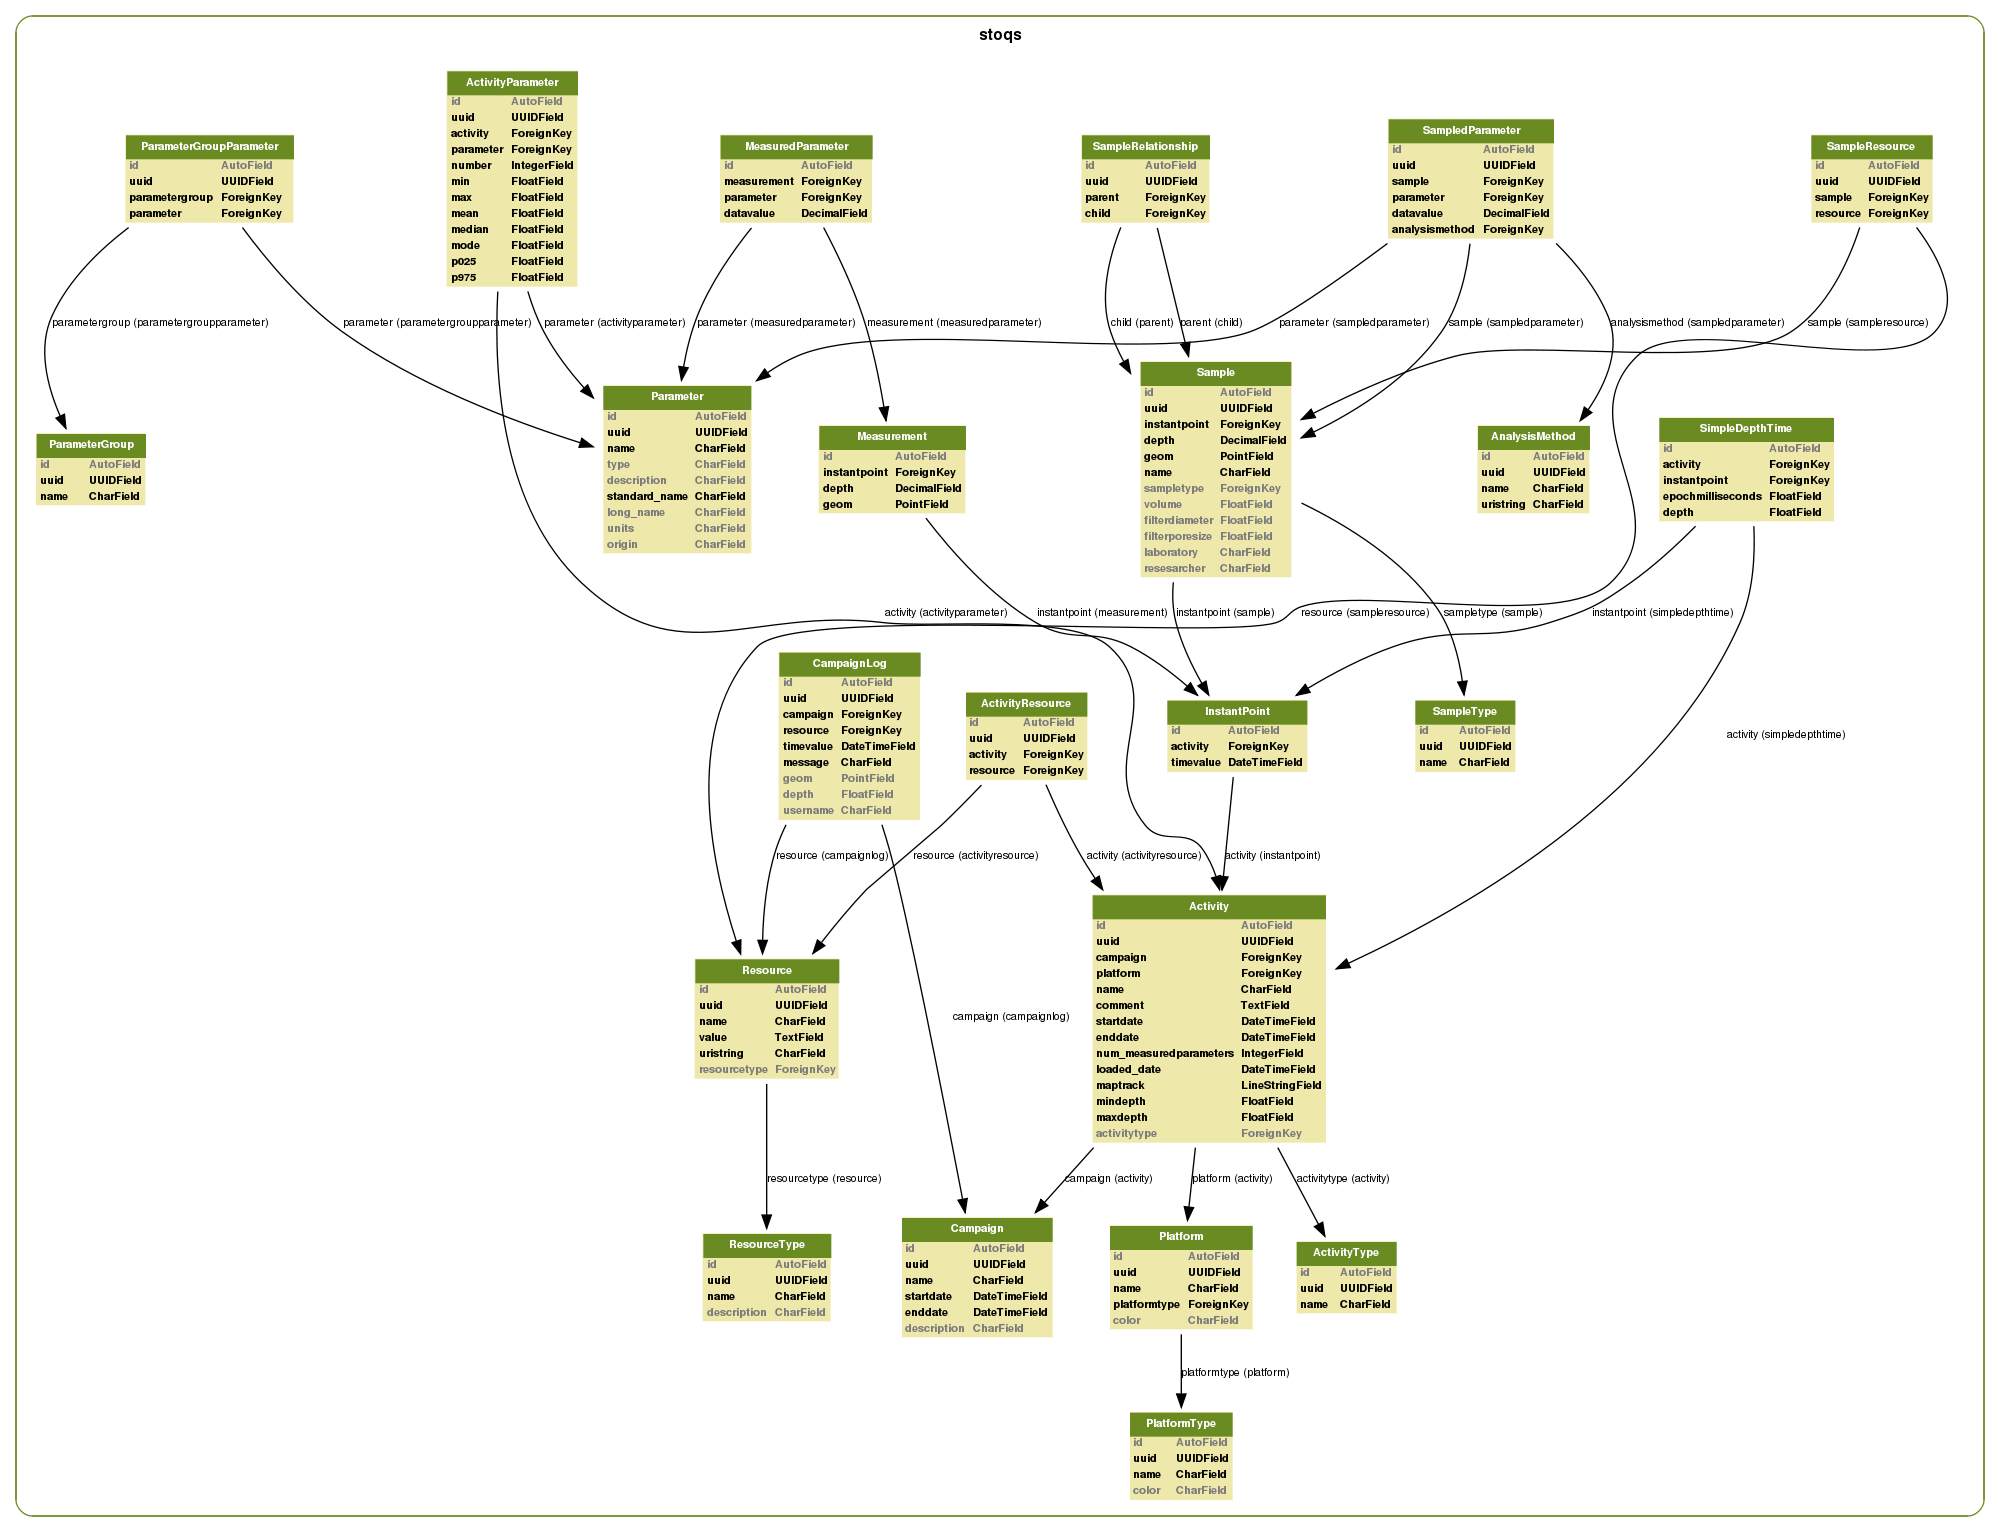
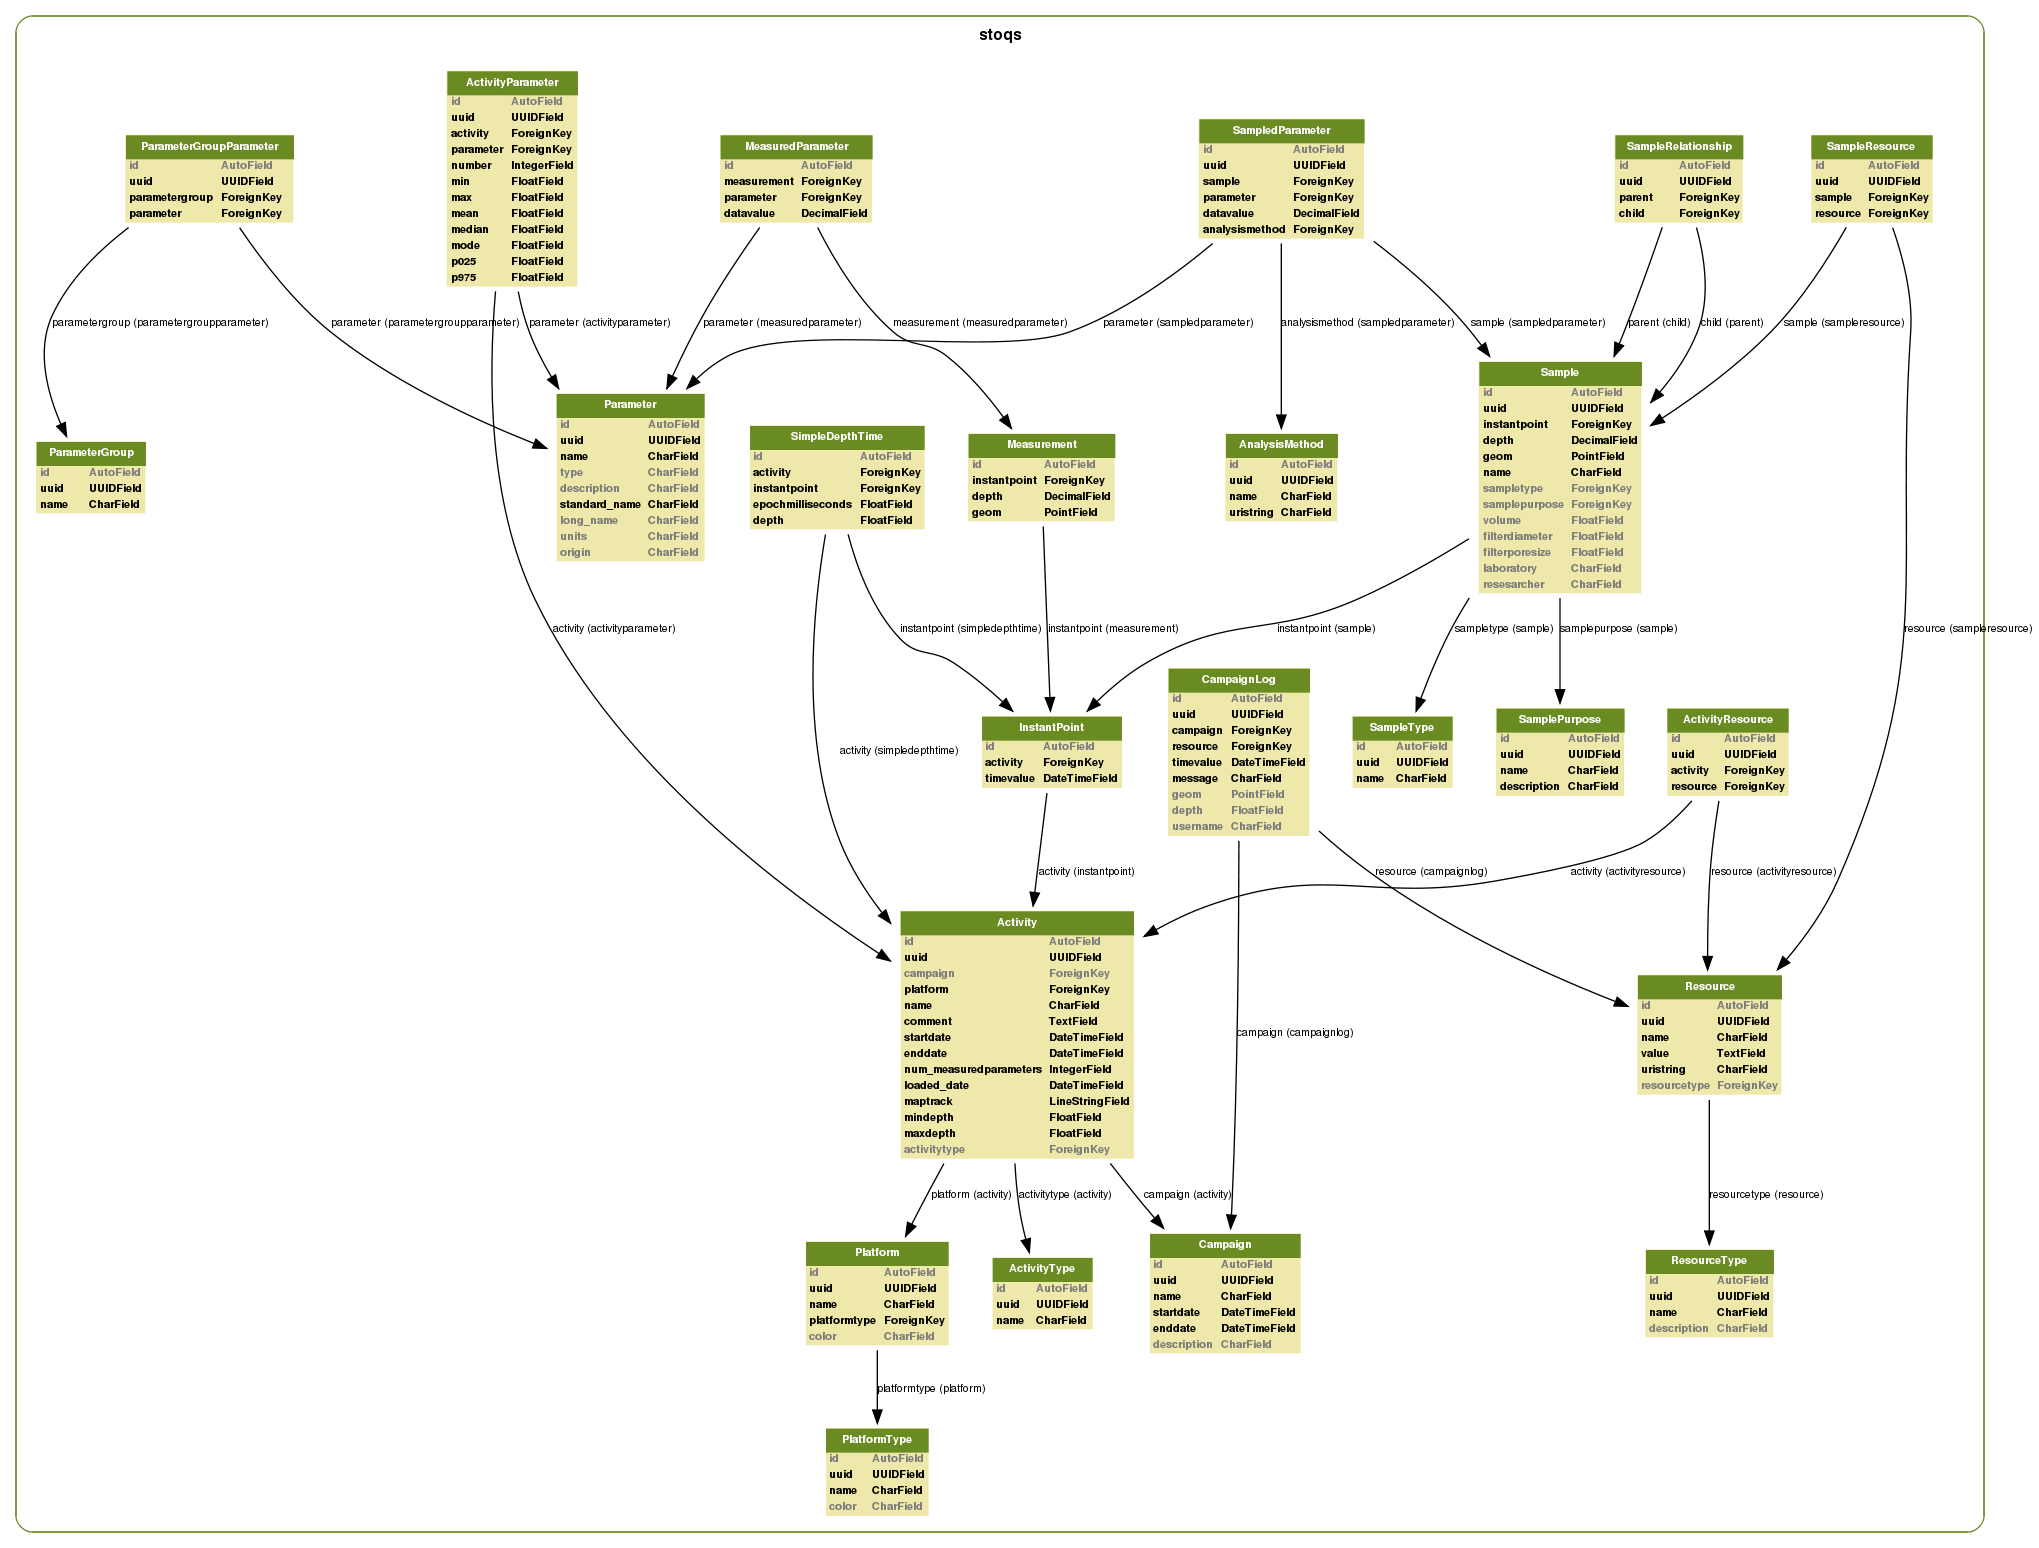
Added SamplePurpose class linked to sample, as we need this in addition to SampleType

diff --git a/stoqs/models.py b/stoqs/models.py
@@ -312,6 +312,21 @@ class SampleType(models.Model):
     def __str__(self):
         return "%s" % (self.name,)
 
+class SamplePurpose(models.Model):
+    '''
+    Purpose of Sample.  Example names: random, control, peak
+    '''
+    uuid = UUIDField(editable=False)
+    name = models.CharField(max_length=128, unique=True)
+    description = models.CharField(max_length=1024)
+    objects = models.GeoManager()
+    class Meta:
+        verbose_name='Sample Purpose'
+        verbose_name_plural='Sample Purposes'
+        app_label = 'stoqs'
+    def __str__(self):
+        return "%s" % (self.name,)
+
 class AnalysisMethod(models.Model):
     '''
     The method used for producing a ParamaterSample.datavlue from a Sample
@@ -344,6 +359,7 @@ class Sample(models.Model):
     geom = models.PointField(srid=4326, spatial_index=True, dim=2)
     name = models.CharField(max_length=128, db_index=True)
     sampletype = models.ForeignKey(SampleType, blank=True, null=True, default=None) 
+    samplepurpose = models.ForeignKey(SamplePurpose, blank=True, null=True, default=None) 
     volume = models.FloatField(blank=True, null=True)
     filterdiameter = models.FloatField(blank=True, null=True)
     filterporesize = models.FloatField(blank=True, null=True)
